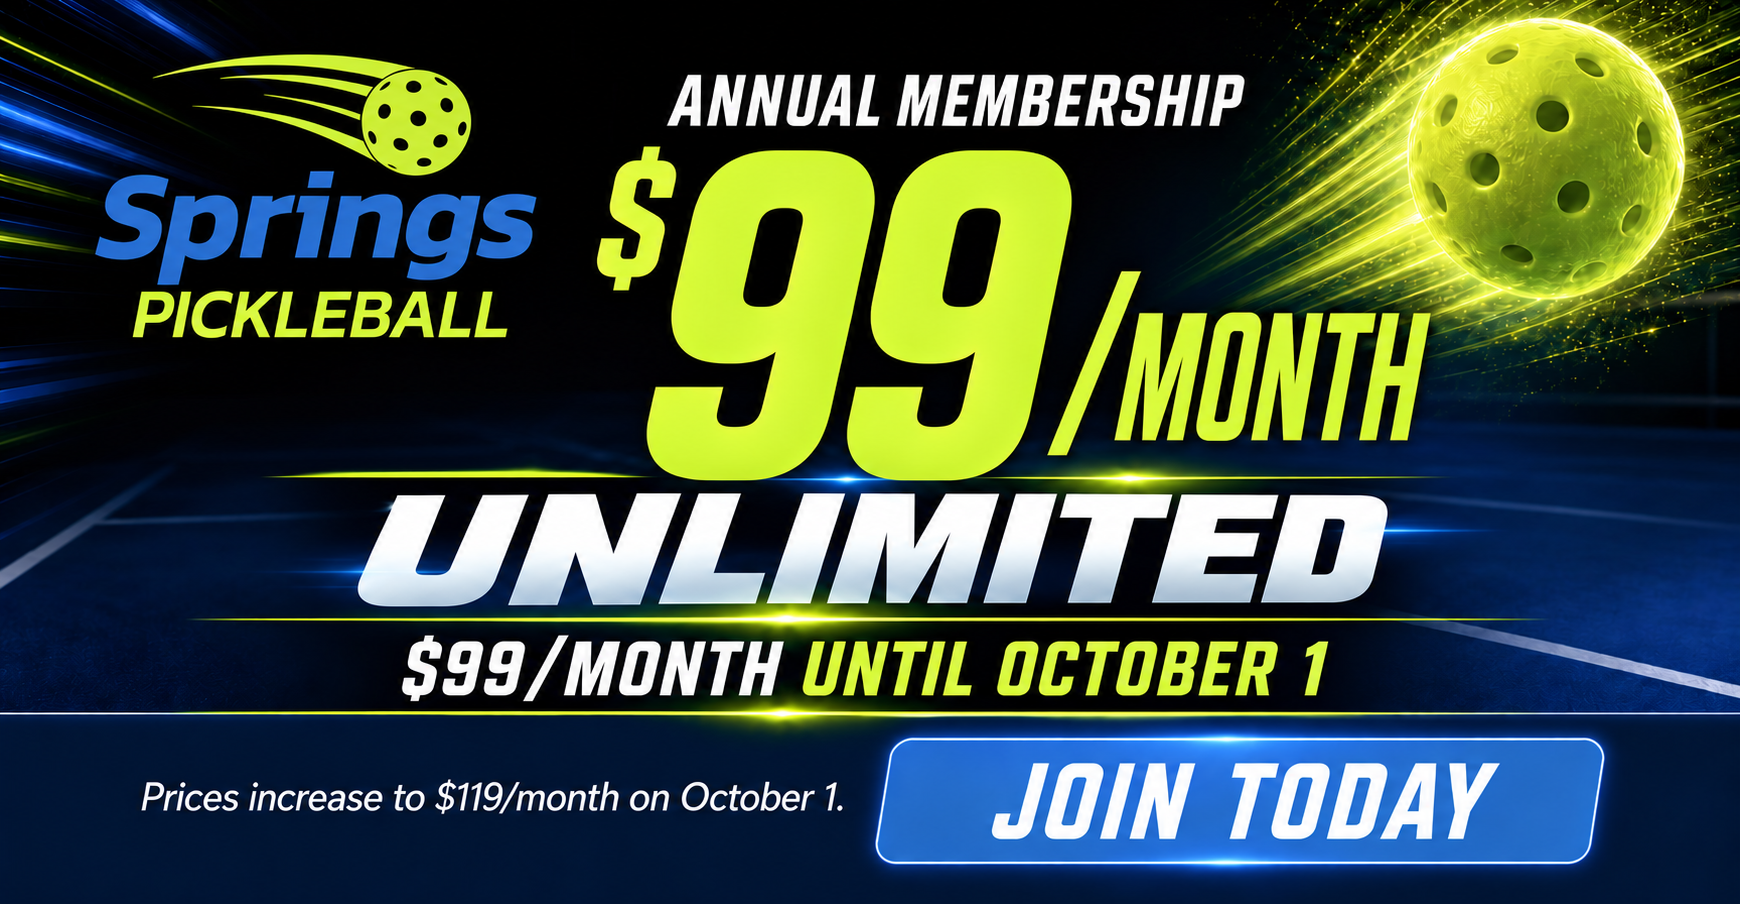
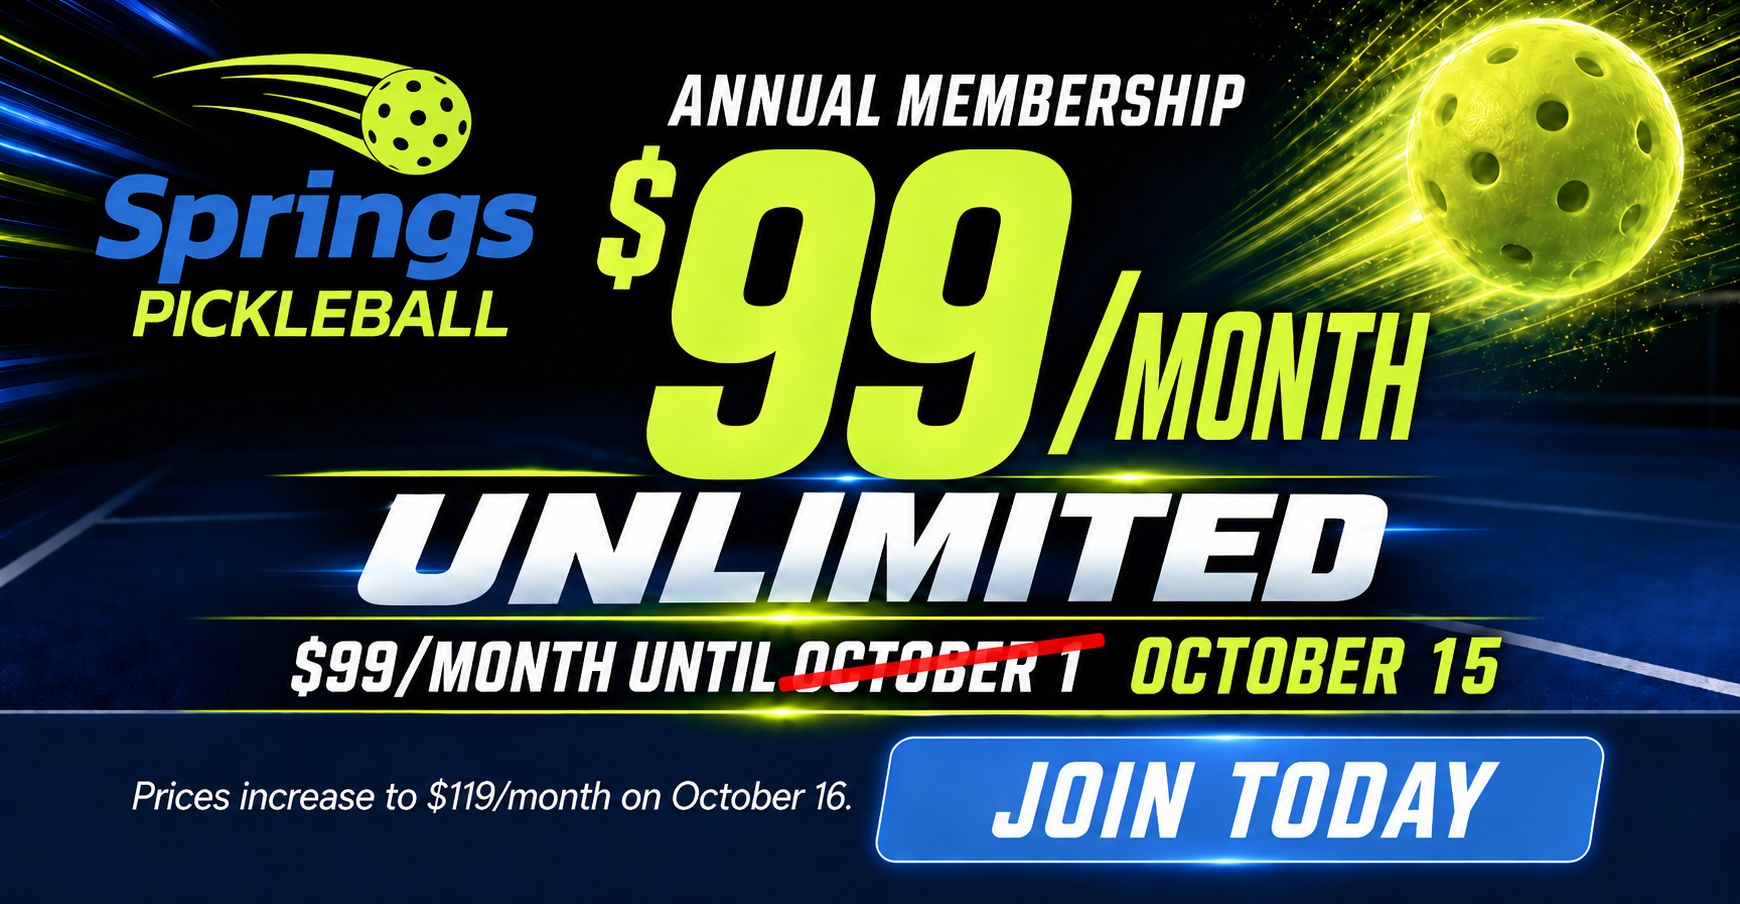
update promos and pricing

diff --git a/memberships.js b/memberships.js
@@ -10,18 +10,18 @@ const SIGNUP = {
 
 const PLANS = {
   guest: {
-    name: 'Free Member Account',
+    name: 'Free Guest',
     variants: {
       single: {
-        annual: { name: 'Free Member Account', amount: 0, label: '/mo', billingText: 'free account; pay as you play' },
-        monthly: { name: 'Free Member Account', amount: 0, label: '/mo', billingText: 'free account; pay as you play' },
+        annual: { name: 'Free Guest', amount: 0, label: '/visit', billingText: 'no monthly dues; pay guest rates' },
+        monthly: { name: 'Free Guest', amount: 0, label: '/visit', billingText: 'no monthly dues; pay guest rates' },
       },
       couples: {
-        annual: { name: 'Free Member Account', amount: 0, label: '/mo', billingText: 'each player creates a free member account' },
-        monthly: { name: 'Free Member Account', amount: 0, label: '/mo', billingText: 'each player creates a free member account' },
+        annual: { name: 'Free Guest', amount: 0, label: '/visit', billingText: 'no monthly dues; pay guest rates' },
+        monthly: { name: 'Free Guest', amount: 0, label: '/visit', billingText: 'no monthly dues; pay guest rates' },
       },
     },
-    description: 'Create a free account to book courts and open play at guest rates.',
+    description: 'No monthly dues. Pay guest rates for courts and open play.',
     perks: [
       'No monthly membership dues',
       'Pay standard guest rates for courts and open play',
@@ -55,11 +55,11 @@ const PLANS = {
     featured: true,
     variants: {
       single: {
-        annual: { name: 'Unlimited Annual Membership Special', amount: 99, label: '/mo', billingText: 'normally $139/mo' },
-        monthly: { name: 'Unlimited Month to Month Membership', amount: 129, label: '/mo', billingText: 'no annual contract' },
+        annual: { name: 'Unlimited Annual Membership', amount: 119, label: '/mo', billingText: 'standard annual rate' },
+        monthly: { name: 'Unlimited Month to Month Membership', amount: 149, label: '/mo', billingText: 'no annual contract' },
       },
       couples: {
-        annual: { name: 'Couples Unlimited Annual Membership Special', amount: 189, label: '/mo', billingText: 'normally $269/mo' },
+        annual: { name: 'Couples Unlimited Annual Membership', amount: 189, label: '/mo', billingText: 'annual membership' },
       },
     },
     description: 'Never pay for open play or doubles court rentals, with 9-day advance reservations.',
@@ -76,16 +76,15 @@ const PLANS = {
     name: 'Unlimited+',
     variants: {
       single: {
-        annual: { name: 'Unlimited+ Annual Membership Special', amount: 139, label: '/mo', billingText: 'normally $169/mo' },
+        annual: { name: 'Unlimited+ Annual Membership', amount: 159, label: '/mo', billingText: 'annual membership' },
       },
       couples: {},
     },
-    description: 'The ultimate membership with free court rentals, open play, leagues, tournaments, clinics, and guest passes.',
+    description: 'The ultimate membership with free open play, court rentals, Springs leagues and tournaments, and guest passes.',
     perks: [
       'Free open play and court rentals for doubles play',
-      'Children under 18 receive Flex rates',
-      'Free Springs Pickleball-hosted leagues and tournaments',
-      '1 free clinic per month ($30 value)',
+      'Free Springs leagues and tournaments',
+      'Free ball machine',
       '10-day advance reservations',
       'Guest passes included',
     ],
@@ -93,8 +92,8 @@ const PLANS = {
 };
 
 const GUEST_RATES = {
-  openPlay: 14,        // per 2-hr session
-  courtPerHr: 30,      // per hour (full court up to 6)
+  openPlay: 16,        // regular rate per 2-hr session; prime-time rate is $20
+  courtPerHr: 34,      // daytime rate per hour (full court up to 6); prime time is $40
   league: 120,         // per 6-week league
   tournament: 60,      // typical tournament entry
   clinic: 30,          // per clinic
@@ -102,11 +101,27 @@ const GUEST_RATES = {
 
 // Flex-member rates for calculator
 const FLEX_RATES = {
-  openPlay: 7,
-  courtPerHr: 15,
+  openPlay: 8,
+  courtPerHr: 17,
   league: 96,          // ~20% off
   tournament: 48,      // ~20% off
 };
+
+// Keep the Unlimited annual promo aligned with its published end date.
+const unlimitedAnnualPromoEnd = '2026-10-15';
+const today = new Date();
+const todayKey = [
+  today.getFullYear(),
+  String(today.getMonth() + 1).padStart(2, '0'),
+  String(today.getDate()).padStart(2, '0'),
+].join('-');
+if (todayKey <= unlimitedAnnualPromoEnd) {
+  Object.assign(PLANS.unlimited.variants.single.annual, {
+    name: 'Unlimited Annual Membership Special',
+    amount: 99,
+    billingText: 'Promo rate through October 15, 2026; standard rate is $119/mo starting October 16.',
+  });
+}
 
 // ---------------------------------------------------------------
 // Render pricing cards based on toggle state
@@ -291,13 +306,10 @@ function calculate() {
 
   const plusMembership = planAnnualCost(PLANS.unlimited_plus, 'annual', party);
   if (plusMembership !== null) {
-    const includedClinicsMonthly = Math.min(clinics, 1) * adultPlayers;
-    const paidClinicsMonthly = Math.max(0, clinics - 1) * adultPlayers;
-    const plusUsage = paidClinicsMonthly * 12 * GUEST_RATES.clinic; // Unlimited+ includes adult leagues, tournaments, and one clinic per month.
+    const plusUsage = adultYearlyClinics * GUEST_RATES.clinic;
     const plusIncludedValue =
       adultYearlyLeagues * GUEST_RATES.league +
-      adultYearlyTourneys * GUEST_RATES.tournament +
-      includedClinicsMonthly * 12 * GUEST_RATES.clinic;
+      adultYearlyTourneys * GUEST_RATES.tournament;
     options.push({
       key: 'unlimited_plus',
       name: PLANS.unlimited_plus.variants[party].annual.name || PLANS.unlimited_plus.name,
@@ -327,7 +339,7 @@ function calculate() {
   const bestIncludedMonthly = best.includedValue / 12;
   const monthlySavings = Math.max(0, vsGuest / 12);
   const bestIsMembership = best.key !== 'guest';
-  const bestIncludesFreeFlexKids = kids > 0 && ['unlimited', 'unlimited_plus'].includes(best.key);
+  const bestIncludesFreeFlexKids = kids > 0 && ['unlimited'].includes(best.key);
   const kidsNote = bestIncludesFreeFlexKids
     ? `<p class="calc-kids-note">Under-18 discount: ${kids} kid${kids === 1 ? '' : 's'} ${kids === 1 ? 'gets' : 'get'} Flex rates with no added Flex dues.</p>`
     : '';
@@ -378,7 +390,7 @@ function calculate() {
           return `<li><strong>${o.name}</strong> — ${moneyMonthly(o.total / 12)}/mo${savingsText} <span>(${money(o.total)}/yr)</span></li>`;
         }).join('')}
       </ol>
-      <p class="calc-note">All values are estimates and subject to change. Kids under 18 are noted as a benefit only and are not factored into play or usage cost estimates. Unlimited+ savings includes Springs Pickleball-hosted leagues and tournaments plus up to one $30 clinic per month. With Unlimited or Unlimited+, kids under 18 get Flex pricing with no added Flex dues. Prime-time and event pricing may vary.</p>
+      <p class="calc-note">All values are estimates using regular daytime rates; prime-time rates are $20 per open-play session and $40 per court hour. Kids under 18 are noted as a benefit only and are not factored into play or usage cost estimates. Unlimited+ savings includes Springs Pickleball-hosted leagues and tournaments. With Unlimited, kids under 18 get Flex pricing with no added Flex dues. Event pricing may vary.</p>
     </div>
   `;
   out.style.display = 'block';

diff --git a/memberships.html b/memberships.html
@@ -4,18 +4,18 @@
 <meta charset="UTF-8">
 <meta name="viewport" content="width=device-width, initial-scale=1">
 <title>Pickleball Memberships in Colorado Springs | Springs Pickleball</title>
-<meta name="description" content="Compare Springs Pickleball memberships for Colorado Springs players, including Flex, Unlimited, and Unlimited+ plans. Prices increase for new members starting October 1, 2026.">
+<meta name="description" content="Compare Springs Pickleball Free Guest, Flex, Unlimited, and Unlimited+ memberships for Colorado Springs players at both locations.">
 <link rel="canonical" href="https://springspickleball.com/memberships.html">
 <meta property="og:type" content="website">
 <meta property="og:site_name" content="Springs Pickleball">
 <meta property="og:title" content="Pickleball Memberships in Colorado Springs">
-<meta property="og:description" content="Find the best Springs Pickleball membership for open play, courts, tournaments, clinics, and both-location access. Prices increase for new members starting October 1, 2026.">
+<meta property="og:description" content="Find the best Springs Pickleball membership for open play, courts, tournaments, clinics, and both-location access.">
 <meta property="og:url" content="https://springspickleball.com/memberships.html">
-<meta property="og:image" content="https://springspickleball.com/images/east-game-close-up.jpg">
+<meta property="og:image" content="https://springspickleball.com/images/sp_memberships_graphic.png">
 <meta name="twitter:card" content="summary_large_image">
 <meta name="twitter:title" content="Pickleball Memberships in Colorado Springs">
-<meta name="twitter:description" content="Compare Flex, Unlimited, and Unlimited+ plans for Springs Pickleball West and East. Prices increase for new members starting October 1, 2026.">
-<meta name="twitter:image" content="https://springspickleball.com/images/east-game-close-up.jpg">
+<meta name="twitter:description" content="Compare Free Guest, Flex, Unlimited, and Unlimited+ plans for Springs Pickleball West and East.">
+<meta name="twitter:image" content="https://springspickleball.com/images/sp_memberships_graphic.png">
 <link rel="icon" href="./images/logo.png">
 <link rel="preconnect" href="https://fonts.googleapis.com">
 <link rel="preconnect" href="https://fonts.gstatic.com" crossorigin>
@@ -135,21 +135,21 @@
   <div class="container">
     <span class="eyebrow">Our Prices</span>
     <h1>Membership Pricing</h1>
-    <p>Choose the plan that fits how you play. All memberships work at both Springs Pickleball locations. Choose the membership for the location that you will primarily play at. Prices increase for new members starting October 1, 2026.</p>
+    <p>Choose the plan that fits how you play. All memberships work at both Springs Pickleball locations. Choose the membership for the location that you will primarily play at.</p>
   </div>
 </section>
 
 <section class="block">
   <div class="container">
-    <div class="membership-special membership-price-notice reveal" role="note">
-      <div class="membership-price-notice-media">
-        <img src="images/sp_membership_promo.png" alt="Annual membership is $99 per month until October 1, 2026. Prices increase to $119 per month on October 1.">
+    <div class="membership-overview membership-overview-with-promo reveal">
+      <img src="images/sp_memberships_graphic.png" alt="Springs Pickleball membership packages: Free Guest at $0 per visit; Flex at $39 per month annually or $49 month to month; Unlimited at $119 per month annually or $149 month to month; and Unlimited+ at $159 per month. Couples options are available for Flex and Unlimited. All memberships work at both locations.">
+      <div class="membership-overview-promo" data-hide-after="2026-10-15">
+        <img src="images/sp_membership_promo.png" alt="Unlimited annual membership promo: $99 per month through October 15, 2026. Regular price is $119 per month beginning October 16.">
       </div>
-      <div class="membership-special-copy">
-        <span class="eyebrow">New-Member Pricing Update</span>
-        <h2>Membership prices go up October 1, 2026</h2>
-        <p>Current prices are available for new members through September 30, 2026.</p>
-      </div>
+    </div>
+
+    <div class="open-play-pricing-graphic reveal">
+      <img src="images/sp_open_play_pricing.png" alt="Open play is $16 before 5 p.m. and $20 after 5 p.m.; Flex members pay $8. Court reservations are $34 per hour daytime and $40 per hour prime time.">
     </div>
 
     <div class="toggle-bar">

diff --git a/index.html b/index.html
@@ -189,19 +189,11 @@
   </div>
 </div>
 
-<section class="membership-promo" data-hide-after="2026-10-01" aria-label="New-member pricing update">
-  <div class="membership-special membership-price-notice home-membership-notice" role="note">
-    <div class="membership-price-notice-media">
-      <img src="images/sp_membership_promo.png" alt="Annual membership is $99 per month until October 1, 2026. Prices increase to $119 per month on October 1.">
-    </div>
-    <div class="membership-special-copy">
-      <span class="eyebrow">New-Member Pricing Update</span>
-      <h2>Membership prices go up October 1, 2026</h2>
-      <p>Current prices are available for new members through September 30, 2026.</p>
-      <div class="membership-special-ctas">
-        <a href="memberships.html" class="btn">View Memberships</a>
-      </div>
-    </div>
+<section class="membership-promo" aria-label="Springs Pickleball memberships">
+  <div class="container membership-overview home-membership-overview reveal">
+    <img src="images/sp_memberships_graphic.png" alt="Springs Pickleball membership packages: Free Guest at $0 per visit; Flex at $39 per month annually or $49 month to month; Unlimited at $119 per month annually or $149 month to month; and Unlimited+ at $159 per month. Couples options are available for Flex and Unlimited. All memberships work at both locations.">
+    <p class="membership-home-promo" data-hide-after="2026-10-15"><strong>Limited-time Unlimited Annual offer:</strong> $99/month through October 15, 2026. The graphic shows regular pricing; the standard Unlimited Annual rate is $119/month starting October 16.</p>
+    <a href="memberships.html" class="btn">Compare Memberships</a>
   </div>
 </section>
 
@@ -331,7 +323,7 @@
         <h2>Premium Indoor Pickleball, Without the Premium Price</h2>
         <p>Clear guest pricing, strong member savings, and no membership required.</p>
         <ul>
-          <li><strong>$14 open play</strong> &amp; <strong>$30/hr court rental</strong> for guests</li>
+          <li><strong>$16 open play before 5 p.m.</strong> / <strong>$20 after 5 p.m.</strong> and <strong>$34/hr daytime court reservations</strong> / <strong>$40/hr prime time</strong></li>
           <li>Member plans lower open play and court costs</li>
           <li>Up to 10-day advance booking for members</li>
           <li>Full gym, dink room, and ball machines</li>
@@ -354,7 +346,7 @@
         <article class="mini-card program-card-with-photo">
           <img class="mini-card-photo" src="images/west-close-people.jpg" alt="Players competing at Springs Pickleball West" loading="lazy" decoding="async">
           <h3>Level Open Play</h3>
-          <p>Guests: $14 per 2-hour session ($18 primetime). Rotate with players at your level, and paddles are free for guests.</p>
+          <p>Open play is $16 before 5 p.m. and $20 after 5 p.m. Flex members pay $8, and Unlimited members play free. Rotate with players at your level, and paddles are free for guests.</p>
           <div class="inline-links">
             <a href="https://app.courtreserve.com/Online/Events/List/8778/GBT6FTIB7O8778" target="_blank" rel="noopener">West Open Play</a>
             <a href="https://app.courtreserve.com/Online/Events/List/15687/GBT6FTIB7O8778" target="_blank" rel="noopener">East Open Play</a>
@@ -371,7 +363,7 @@
         <div class="mini-card program-card-with-photo">
           <img class="mini-card-photo" src="images/east-wide.jpg" alt="Springs Pickleball East courts" loading="lazy" decoding="async">
           <h3>Reserve a Court</h3>
-          <p>Book up to 6 players from $30/hr, with lower per-player pricing for doubles.</p>
+          <p>Book up to 6 players for $34/hr daytime or $40/hr prime time, with lower per-player pricing for doubles.</p>
           <div class="inline-links">
             <a href="https://app.courtreserve.com/online/publicbookings/8778" target="_blank" rel="noopener">West</a>
             <a href="https://app.courtreserve.com/online/publicbookings/15687" target="_blank" rel="noopener">East</a>

diff --git a/styles.css b/styles.css
@@ -832,6 +832,74 @@ section.block.alt { background: #f7faf3; border-top: 1px solid #e4ecd9; border-b
 .membership-promo {
   width: 100%;
 }
+.membership-overview {
+  max-width: 1100px;
+  margin: 0 auto 2rem;
+  overflow: hidden;
+  border-radius: 8px;
+  box-shadow: 0 14px 34px rgba(7,24,38,0.14);
+}
+.membership-overview img {
+  display: block;
+  width: 100%;
+  height: auto;
+}
+.membership-overview-with-promo {
+  display: grid;
+  grid-template-columns: minmax(0, 1.8fr) minmax(240px, 0.8fr);
+  align-items: stretch;
+  background: #071826;
+}
+.membership-overview-promo {
+  display: block;
+  overflow: hidden;
+  border-left: 4px solid var(--main);
+}
+.membership-overview-promo img {
+  display: block;
+  width: 100%;
+  height: auto;
+}
+.membership-overview-promo[hidden] {
+  display: none;
+}
+.membership-overview-with-promo:has(.membership-overview-promo[hidden]) {
+  grid-template-columns: 1fr;
+}
+.open-play-pricing-graphic {
+  max-width: 1100px;
+  margin: 0 auto 2rem;
+  overflow: hidden;
+  border-radius: 8px;
+  box-shadow: 0 14px 34px rgba(7,24,38,0.14);
+}
+.open-play-pricing-graphic img {
+  display: block;
+  width: 100%;
+  height: auto;
+}
+.home-membership-overview {
+  display: flex;
+  flex-direction: column;
+  align-items: center;
+  gap: 1rem;
+  margin: 1.5rem auto;
+  box-shadow: none;
+}
+.membership-home-promo {
+  max-width: 900px;
+  margin: 0;
+  color: var(--muted);
+  text-align: center;
+}
+.membership-home-promo strong {
+  color: var(--accent-dark);
+}
+@media (max-width: 720px) {
+  .membership-overview-with-promo {
+    grid-template-columns: 1fr;
+  }
+}
 
 /* ===== Leagues ===== */
 .leagues-head {

diff --git a/faq.html b/faq.html
@@ -156,7 +156,7 @@
       </details>
       <details class="faq-item">
         <summary>What does it cost to play?</summary>
-        <div class="faq-answer"><p>Two main options: <strong>Level Open Play</strong> at $14 per 2-hour session ($18 primetime), or <strong>court rental</strong> at $30/hr for up to 6 players ($40 primetime). Flex members pay 50% less, and Unlimited members play free.</p></div>
+        <div class="faq-answer"><p>Two main options: <strong>Level Open Play</strong> at $16 per 2-hour session before 5 p.m. or $20 after 5 p.m.; Flex members pay $8, and Unlimited members play free. <strong>Court reservations</strong> are $34/hr daytime or $40/hr prime time for up to 6 players. Flex members receive 50% off court reservations.</p></div>
       </details>
       <details class="faq-item">
         <summary>How far in advance can I reserve a court?</summary>

diff --git a/book.html b/book.html
@@ -236,7 +236,7 @@
       </div>
       <div class="card">
         <h3>Join Open Play</h3>
-        <p>2-hour rotating sessions by skill level. $14 / $18 primetime, or free with Unlimited memberships.</p>
+        <p>2-hour rotating sessions by skill level. $16 before 5 p.m. / $20 after 5 p.m. ($8 for Flex), or free with Unlimited memberships.</p>
         <p class="card-links">
           <a href="https://app.courtreserve.com/Online/Events/List/8778/GBT6FTIB7O8778" target="_blank" rel="noopener">West</a> ·
           <a href="https://app.courtreserve.com/Online/Events/List/15687/GBT6FTIB7O8778" target="_blank" rel="noopener">East</a>

diff --git a/events.html b/events.html
@@ -274,7 +274,7 @@
       </div>
       <div class="card">
         <h3>Senior Open Plays</h3>
-        <p>55+ discounted 2-hour open plays — $10 guest / $5 Flex ($14 / $7 weekends).</p>
+        <p>55+ discounted 2-hour open plays — $10 guest / $5 Flex. Regular open play is $16 before 5 p.m. and $20 after 5 p.m. ($8 for Flex).</p>
         <p class="card-links"><a href="https://app.courtreserve.com/Online/Events/List/8778/JNVAZCHBC98778" target="_blank" rel="noopener">West</a> · <a href="https://app.courtreserve.com/Online/Events/List/15687/5NHIU63JZ715687" target="_blank" rel="noopener">East</a></p>
       </div>
     </div>
